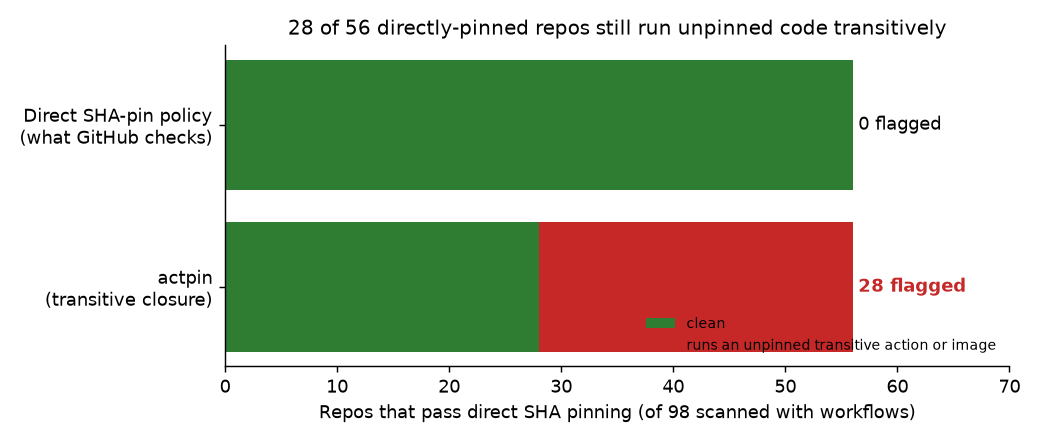
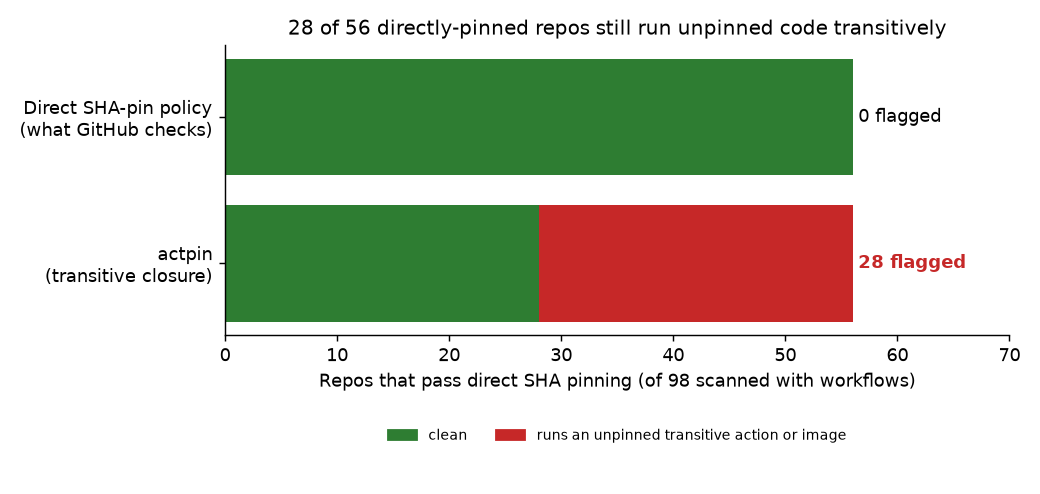
Move scan figure legend below the axes

diff --git a/scripts/plot_results.py b/scripts/plot_results.py
@@ -16,7 +16,7 @@ def main(summary=ROOT / "results" / "summary.json", out=ROOT / "docs" / "scan.pn
     s = json.loads(Path(summary).read_text())
     passing = s["direct_policy_pass"]
     exposed = s["direct_pass_but_transitive_unpinned"]
-    fig, ax = plt.subplots(figsize=(8, 3.4), dpi=130)
+    fig, ax = plt.subplots(figsize=(8, 3.8), dpi=130)
     labels = ["Direct SHA-pin policy\n(what GitHub checks)", "actpin\n(transitive closure)"]
     ax.barh(labels, [passing, passing - exposed], color=["#2e7d32", "#2e7d32"], label="clean")
     ax.barh(labels, [0, exposed], left=[passing, passing - exposed], color="#c62828",
@@ -28,7 +28,10 @@ def main(summary=ROOT / "results" / "summary.json", out=ROOT / "docs" / "scan.pn
     ax.set_xlabel(f"Repos that pass direct SHA pinning (of {s['repos_with_workflows']} scanned with workflows)")
     ax.set_title(f"{exposed} of {passing} directly-pinned repos still run unpinned code transitively",
                  fontsize=11)
-    ax.legend(loc="lower right", fontsize=8, frameon=False)
+    from matplotlib.patches import Patch
+    ax.legend(handles=[Patch(color="#2e7d32", label="clean"),
+                       Patch(color="#c62828", label="runs an unpinned transitive action or image")],
+              loc="upper center", bbox_to_anchor=(0.5, -0.28), ncol=2, fontsize=8, frameon=False)
     for side in ("top", "right"):
         ax.spines[side].set_visible(False)
     fig.tight_layout()
